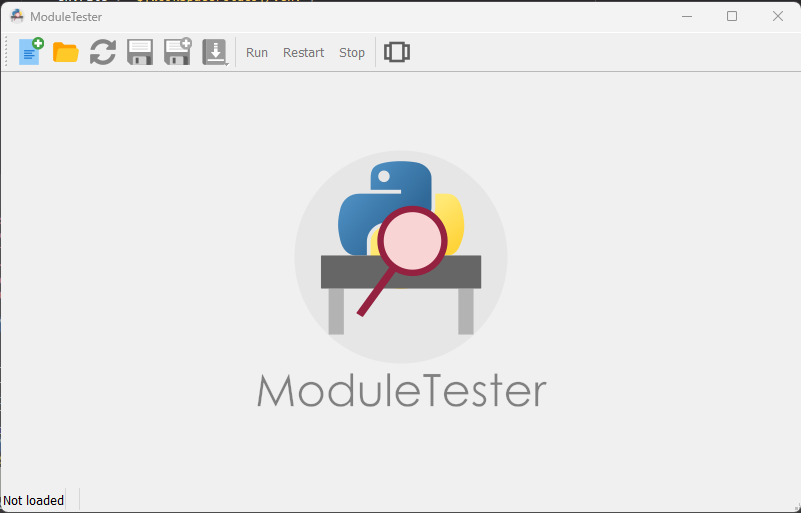
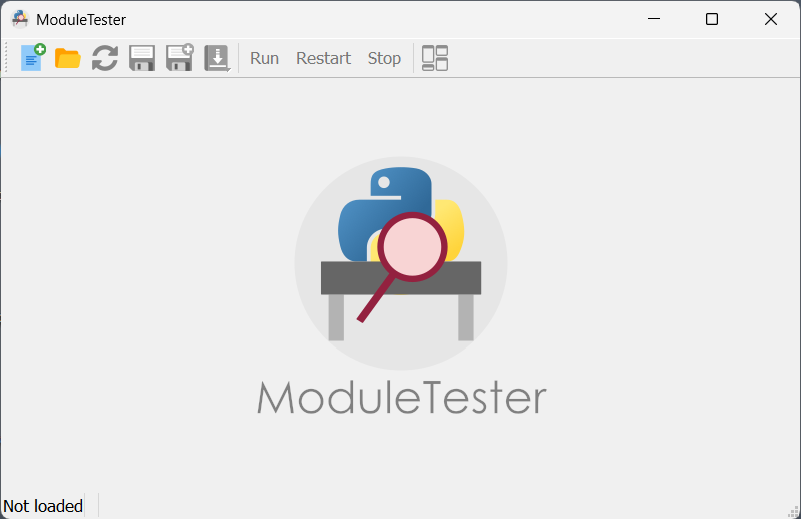
update readme

Changed region(s): [[0.0, 0.0, 1.0, 1.0], [0.4057, 0.3119, 0.593, 0.6238], [0.3121, 0.7173, 0.6866, 0.8109]]

diff --git a/README.md b/README.md
@@ -4,8 +4,9 @@
 [![pypi version](https://img.shields.io/pypi/v/ModuleTester.svg)](https://pypi.org/project/ModuleTester/)
 [![PyPI status](https://img.shields.io/pypi/status/ModuleTester.svg)](https://github.com/Codra-Ingenierie-Informatique/ModuleTester)
 [![PyPI pyversions](https://img.shields.io/pypi/pyversions/ModuleTester.svg)](https://pypi.python.org/pypi/ModuleTester/)
+[![CI](https://github.com/Codra-Ingenierie-Informatique/ModuleTester/actions/workflows/test.yml/badge.svg)](https://github.com/Codra-Ingenierie-Informatique/ModuleTester/actions/workflows/test.yml)
 
-ℹ Created by [Codra](https://codra.net/) (Pierre Bouchaudon, Pedro Rodriguez, and [Pierre Raybaut](https://github.com/PierreRaybaut)) in 2023, developed and maintained by ModuleTester open-source project team with the support of [Codra](https://codra.net/).
+ℹ Created by [Codra](https://codra.net/) in 2023, developed and maintained by ModuleTester open-source project team with the support of [Codra](https://codra.net/).
 
 ℹ ModuleTester is powered by [PlotPyStack](https://github.com/PlotPyStack) 🚀.
 
@@ -15,24 +16,79 @@
 
 ## Overview
 
-ModuleTester is a Python package providing a GUI to manage and run tests.
+ModuleTester is a GUI and CLI test management tool for Python packages. It
+automatically discovers test scripts, runs them, and generates detailed reports
+in multiple formats.
 
-ModuleTester is a spin-off of the [DataLab](https://github.com/Codra-Ingenierie-Informatique/DataLab),
-mainly used to test [PlotPyStack](https://github.com/PlotPyStack) libraries
-and [DataLab](https://github.com/Codra-Ingenierie-Informatique/DataLab) itself.
+**Key features:**
 
-![ModuleTester](https://raw.githubusercontent.com/Codra-Ingenierie-Informatique/ModuleTester/main/doc/images/shots/empty.png)
+- **Dockable panel layout** — fully customizable workspace with resizable,
+  floatable panels
+- **Tree view navigation** — hierarchical test browser with status icons,
+  notifications, and live spinner during execution
+- **Multi-format export** — generate reports in HTML, DOCX, ODT, PDF, Markdown,
+  and reStructuredText via a Jinja2-based engine
+- **CLI support** — run tests and export reports without the GUI
+  (`moduletester-cli run`, `moduletester-cli export`)
+- **Built-in configuration editor** — edit settings directly in the GUI with
+  error handling and conflict resolution
+- **Notification system** — visual indicators on tabs and tree items for new
+  output and errors
 
+ModuleTester is a spin-off of [DataLab](https://github.com/Codra-Ingenierie-Informatique/DataLab)
+and is used to test [PlotPyStack](https://github.com/PlotPyStack) libraries.
 
-See [home page](https://github.com/Codra-Ingenierie-Informatique/ModuleTester/) and
-[documentation](https://moduletester.readthedocs.io/en/latest/) for more details on
-the library and [changelog](https://github.com/Codra-Ingenierie-Informatique/ModuleTester/blob/main/CHANGELOG.md) for recent history of changes.
+![ModuleTester — empty window](https://raw.githubusercontent.com/Codra-Ingenierie-Informatique/ModuleTester/main/doc/images/shots/empty.png)
+
+## Quick Start
+
+1. **Install** ModuleTester:
+
+   ```bash
+   pip install ModuleTester
+   ```
+
+2. **Mark test scripts** you want to see in the GUI by adding a comment at the
+   top of each script:
+
+   ```python
+   # guitest: show
+   ```
+
+3. **Launch the GUI** on your package:
+
+   ```bash
+   moduletester --module mypackage
+   ```
+
+   Or use the **CLI** to run tests headlessly:
+
+   ```bash
+   moduletester-cli run mypackage
+   ```
+
+4. **Export a report**:
+
+   ```bash
+   moduletester-cli export mypackage --output report.html
+   ```
 
 ## Example
 
-Using ModuleTester on `guidata` Python package:
+Using ModuleTester on the `guidata` Python package — the tree view shows test
+hierarchy and execution status, while dockable panels display test properties,
+output, and errors:
 
-![ModuleTester](https://raw.githubusercontent.com/Codra-Ingenierie-Informatique/ModuleTester/main/doc/images/shots/guidata.moduletester.png)
+![ModuleTester — guidata tests](https://raw.githubusercontent.com/Codra-Ingenierie-Informatique/ModuleTester/main/doc/images/shots/guidata.moduletester.png)
+
+## Documentation
+
+Full documentation is available at
+[moduletester.readthedocs.io](https://moduletester.readthedocs.io/en/latest/).
+
+- [Installation guide](https://moduletester.readthedocs.io/en/latest/installation.html)
+- [Usage (GUI & CLI)](https://moduletester.readthedocs.io/en/latest/usage.html)
+- [Changelog](https://github.com/Codra-Ingenierie-Informatique/ModuleTester/blob/main/CHANGELOG.md)
 
 ## Credits
 
@@ -43,5 +99,5 @@ Copyrights and licensing:
 
 ## Dependencies and other installation methods
 
-See [Installation](https://ModuleTester.readthedocs.io/en/latest/installation.html)
+See [Installation](https://moduletester.readthedocs.io/en/latest/installation.html)
 section in the documentation for more details.

diff --git a/doc/example.rst b/doc/example.rst
@@ -4,9 +4,10 @@ Example
 .. figure:: images/shots/empty.png
    :align: center
 
-   Running ModuleTester lead to an empty window
+   ModuleTester main window with dockable panels and tree view navigation
 
 .. figure:: images/shots/guidata.moduletester.png
    :align: center
 
-   Using ModuleTester on `guidata` Python package
+   Running tests on the ``guidata`` package — tree view with status icons, test
+   properties, and execution results panels
